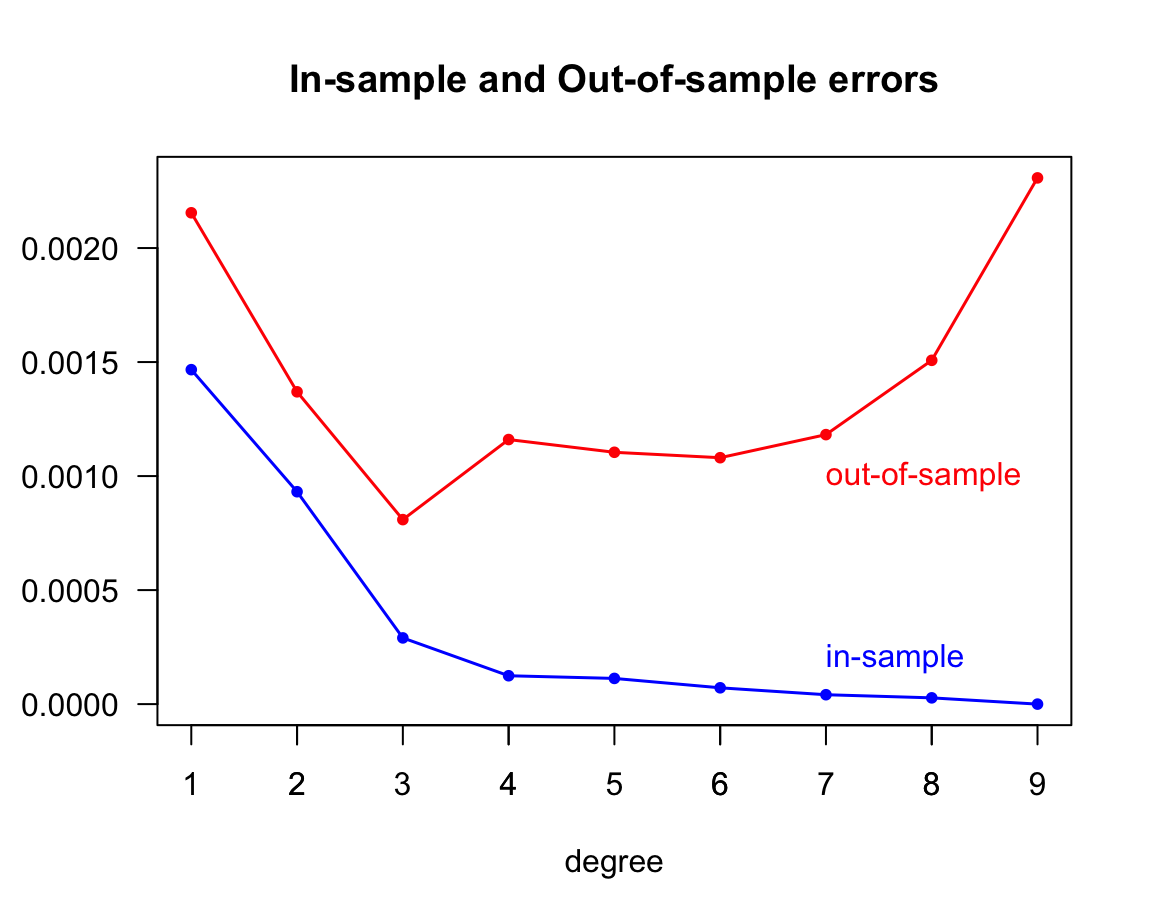
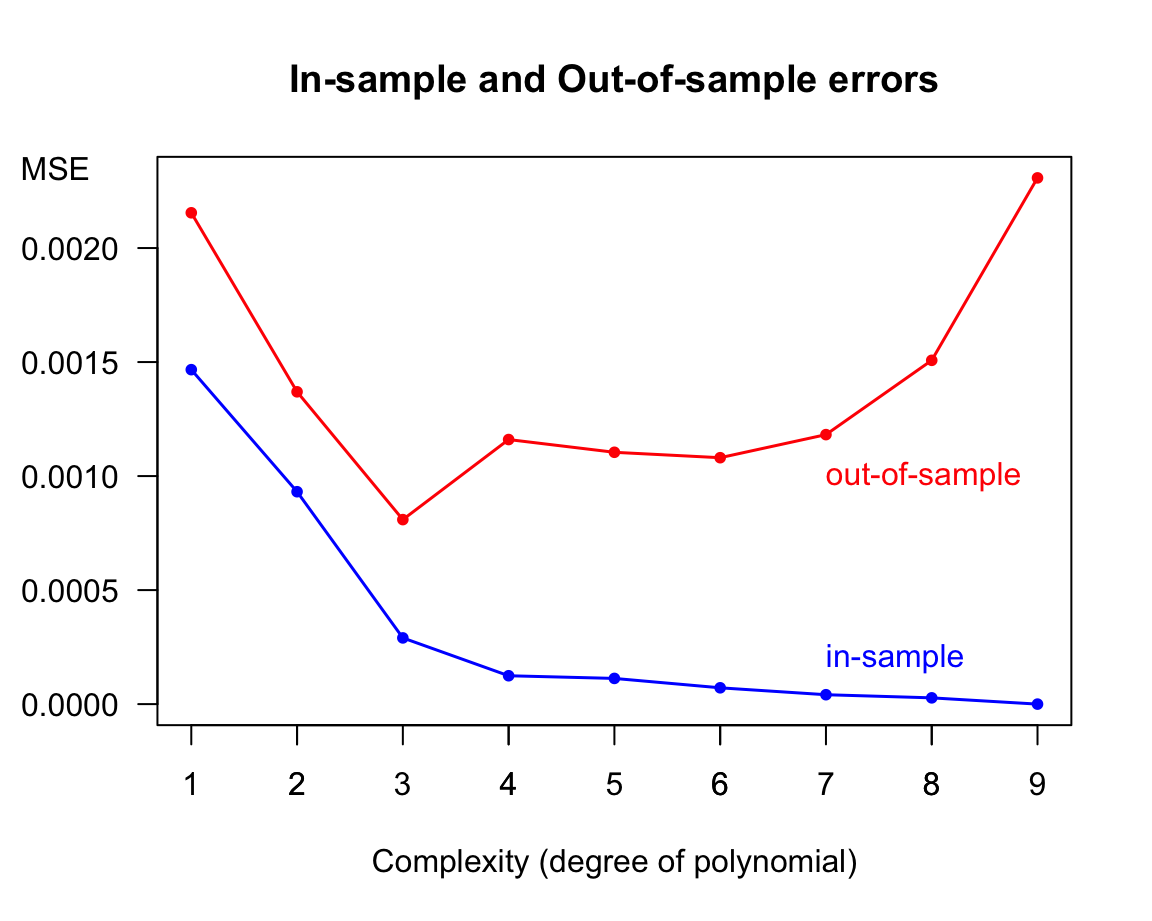
update allmodelsarewrong bookdown

Changed region(s): [[0.3125, 0.9121, 0.75, 0.9729], [0.0, 0.152, 0.0625, 0.2128]]

diff --git a/overfit.html b/overfit.html
@@ -186,7 +186,9 @@
 <li class="chapter" data-level="11.1.1" data-path="overfit.html"><a href="overfit.html#bias-variance-reminder-and-pitfalls"><i class="fa fa-check"></i><b>11.1.1</b> Bias-Variance Reminder and Pitfalls</a></li>
 </ul></li>
 <li class="chapter" data-level="11.2" data-path="overfit.html"><a href="overfit.html#simulation"><i class="fa fa-check"></i><b>11.2</b> Simulation</a><ul>
-<li class="chapter" data-level="11.2.1" data-path="overfit.html"><a href="overfit.html#when-does-overfitting-occurs"><i class="fa fa-check"></i><b>11.2.1</b> When does overfitting occurs?</a></li>
+<li class="chapter" data-level="11.2.1" data-path="overfit.html"><a href="overfit.html#underfitting-overfitting-and-okayfitting"><i class="fa fa-check"></i><b>11.2.1</b> Underfitting, Overfitting and Okayfitting</a></li>
+<li class="chapter" data-level="11.2.2" data-path="overfit.html"><a href="overfit.html#more-learning-sets"><i class="fa fa-check"></i><b>11.2.2</b> More learning sets</a></li>
+<li class="chapter" data-level="11.2.3" data-path="overfit.html"><a href="overfit.html#when-does-overfitting-occurs"><i class="fa fa-check"></i><b>11.2.3</b> When does overfitting occurs?</a></li>
 </ul></li>
 <li class="chapter" data-level="11.3" data-path="overfit.html"><a href="overfit.html#in-summary"><i class="fa fa-check"></i><b>11.3</b> In Summary</a></li>
 </ul></li>
@@ -563,7 +565,7 @@ capacity”. Models, or to be more precise <strong>class</strong> of models, tha
 important details.</p></li>
 <li><p><strong>Large Noise</strong> is the equivalent of getting distracted by the noise in the
 data. This is especially serious when working with <em>bad</em> data, extremely messy,
-perhaps having many missing values, or just simple being of poor quality.</p></li>
+perhaps having many missing values, or just simply being of poor quality.</p></li>
 </ul>
 <p>At this point, it would be nice to consider a simulation example in order to
 illustrate each of the listed pitfalls, and how they are connected to the
@@ -581,9 +583,14 @@ f(x) = sin(1 + x^2) + \varepsilon
 <p>with the input variable <span class="math inline">\(x\)</span> in the interval <span class="math inline">\([0,1]\)</span>, and the noise term
 <span class="math inline">\(\varepsilon \sim N(\mu=0, \sigma=0.03)\)</span>.</p>
 <p>The function of the signal, <span class="math inline">\(sin(1 + x^2)\)</span>, is depicted in the figure below.
-Keep min mind that in real life we will never have this knowledge: we won’t
+Keep in mind that in real life we will never have this knowledge: we won’t
 really know the true form of the target function.</p>
-<p><img src="allmodelsarewrong_files/figure-html/plotoverfit1-1.png" width="70%" style="display: block; margin: auto;" /></p>
+<div class="figure" style="text-align: center"><span id="fig:plotoverfit1"></span>
+<img src="allmodelsarewrong_files/figure-html/plotoverfit1-1.png" alt="Target signal function" width="70%" />
+<p class="caption">
+Figure 11.1: Target signal function
+</p>
+</div>
 <p>We have a model to play with. But, what about the data? We are going to simulate
 one <em>in-sample</em> set of 10 points <span class="math inline">\((x_i, y_i)\)</span>, and one <em>out-of-sample</em> set of
 also 10 points <span class="math inline">\((x_0, y_0)\)</span>.</p>
@@ -604,7 +611,12 @@ crosses. We should emphasize the fact that this out-of-sample set is just for
 simulation purposes. A more formal out-of-sample set should include all
 <span class="math inline">\(x\)</span>-values in the interval <span class="math inline">\([0,1]\)</span>. Likewise, we are including the curve of
 the signal just for visualization (in practice you won’t have this luxury).</p>
-<p><img src="allmodelsarewrong_files/figure-html/plotoverfit2-1.png" width="70%" style="display: block; margin: auto;" /></p>
+<div class="figure" style="text-align: center"><span id="fig:plotoverfit2"></span>
+<img src="allmodelsarewrong_files/figure-html/plotoverfit2-1.png" alt="Target signal with 10 in-sample points, and 10 out-of-sample points" width="70%" />
+<p class="caption">
+Figure 11.2: Target signal with 10 in-sample points, and 10 out-of-sample points
+</p>
+</div>
 <p>In this simulation analysis, we are interested in fitting several regression
 models taking the form of polynomials of various degrees. In theory, we could
 start by fitting a polynomial of degree zero, that is, a constant model. But
@@ -614,12 +626,17 @@ degree model, and so on and so forth. Having only 10 in-sample points, the
 maximum degree polynomial that can be fitted is a 9-degree polynomial.</p>
 <div id="linear-model" class="section level4 unnumbered">
 <h4>Linear Model</h4>
-<p>The first fitted model is a linear model fo the form:</p>
+<p>The first fitted model is a linear model of the form:</p>
 <p><span class="math display">\[
 h_1(x) = b_0 + b_1 x
 \]</span></p>
-<p>The actual regression model is shown in the figure below (see blue line).</p>
-<p><img src="allmodelsarewrong_files/figure-html/plotoverfit3-1.png" width="70%" style="display: block; margin: auto;" /></p>
+<p>The fitted regression model is shown in the figure below (see blue line).</p>
+<div class="figure" style="text-align: center"><span id="fig:plotoverfit3"></span>
+<img src="allmodelsarewrong_files/figure-html/plotoverfit3-1.png" alt="Linear model fit on in-sample points" width="70%" />
+<p class="caption">
+Figure 11.3: Linear model fit on in-sample points
+</p>
+</div>
 <p>With the obtained model, the corresponding in-sample error <span class="math inline">\(E_{in}\)</span> and
 out-of-sample error <span class="math inline">\(E_{out}\)</span> are:</p>
 <pre><code>    Ein      Eout   
@@ -632,7 +649,12 @@ out-of-sample error <span class="math inline">\(E_{out}\)</span> are:</p>
 h_2(x) = b_0 + b_1 x + b_2 x^2
 \]</span></p>
 <p>The following picture displays the fitted model (see blue curve).</p>
-<p><img src="allmodelsarewrong_files/figure-html/plotoverfit4-1.png" width="70%" style="display: block; margin: auto;" /></p>
+<div class="figure" style="text-align: center"><span id="fig:plotoverfit4"></span>
+<img src="allmodelsarewrong_files/figure-html/plotoverfit4-1.png" alt="Quadratic model fit on in-sample points" width="70%" />
+<p class="caption">
+Figure 11.4: Quadratic model fit on in-sample points
+</p>
+</div>
 <p>In this case, the corresponding in-sample error <span class="math inline">\(E_{in}\)</span> and
 out-of-sample error <span class="math inline">\(E_{out}\)</span> are:</p>
 <pre><code>    Ein      Eout   
@@ -645,7 +667,12 @@ which is called a <em>nonic</em>:</p>
 <p><span class="math display">\[
 h_9(x) = b_0 + b_1 x + b_2 x^2 + \dots + b_8 x^8 + b_9 x^9
 \]</span></p>
-<p><img src="allmodelsarewrong_files/figure-html/plotoverfit5-1.png" width="70%" style="display: block; margin: auto;" /></p>
+<div class="figure" style="text-align: center"><span id="fig:plotoverfit5"></span>
+<img src="allmodelsarewrong_files/figure-html/plotoverfit5-1.png" alt="Nonic model fit on in-sample points" width="70%" />
+<p class="caption">
+Figure 11.5: Nonic model fit on in-sample points
+</p>
+</div>
 <p>The corresponding in-sample error <span class="math inline">\(E_{in}\)</span> and out-of-sample error <span class="math inline">\(E_{out}\)</span> are:</p>
 <pre><code>    Ein      Eout   
 0.00000   0.00231   </code></pre>
@@ -653,29 +680,27 @@ h_9(x) = b_0 + b_1 x + b_2 x^2 + \dots + b_8 x^8 + b_9 x^9
 <div id="so-far" class="section level4 unnumbered">
 <h4>So far …</h4>
 <p>With these three models fitted so far (linear, quadratic and nonic), the one
-that best fits the in-sample data is the degree 9 polynomial which achieves
-zero in-sample error. Form this narrow perspective, it is very tempting to
-select <span class="math inline">\(h_9(x)\)</span> as our winner model.</p>
-<p><img src="allmodelsarewrong_files/figure-html/plotoverfit6-1.png" width="90%" style="display: block; margin: auto;" /></p>
+that best fits the in-sample data is the 9-degree polynomial which achieves
+zero in-sample error. From this narrow perspective, it is very tempting to
+select <span class="math inline">\(h_9(x)\)</span> as our winner model. After all, this is the model with a
+perfect fit to the learning data. But is this a wise idea?</p>
+<div class="figure" style="text-align: center"><span id="fig:plotoverfit6"></span>
+<img src="allmodelsarewrong_files/figure-html/plotoverfit6-1.png" alt="Linear, quadratic and nonic regression lines with in-sample error values" width="90%" />
+<p class="caption">
+Figure 11.6: Linear, quadratic and nonic regression lines with in-sample error values
+</p>
 </div>
-<div id="various-polynomials" class="section level4 unnumbered">
-<h4>Various Polynomials</h4>
-<p>It would actually be interesting to compare all fitted polynomials, from degree
-1 to 9, and evaluate not just their in-sample performance, but also their
-out-of-sample behavior. In fact, the out-of-sample performace is what we care
-about when deploying a model to the real world.</p>
-<p>The figure below depicts all nine polynomials.
-As you can tell, the linear model does not have enough capacity. Although it
-does approximates the general positive trend between <span class="math inline">\(y\)</span> and most of the range
-of <span class="math inline">\(x\)</span>-values, its in-sample error is the largest of all.</p>
-<p>The quadratic model does a better job than the linear model, but still misses
-the sigmoidal shape of the signal. Interestingly, the polynomials of degrees 3,
-4, and 5 are able to approximate most of the overall shape of the target model.</p>
-<p>In turn, the degree-9 polynomial, while it does a terrific job of passing
-through all the in-sample points, it is too wiggly. Formally, we say that this
-model is too flexible.</p>
+</div>
+<div id="underfitting-overfitting-and-okayfitting" class="section level3">
+<h3><span class="header-section-number">11.2.1</span> Underfitting, Overfitting and Okayfitting</h3>
+<p>To better unerstand the behavor of low-order versus high-order polynomials, it
+would be nice to compare all fitted polynomials from degree 1 to 9, and
+evaluate not just their in-sample performance, but also their out-of-sample
+behavior (see figure and table below). In fact, at the end of the day it is the
+out-of-sample performace that we care about when deploying a model to the real
+world.</p>
 <p><img src="allmodelsarewrong_files/figure-html/plotoverfit7-1.png" width="90%" style="display: block; margin: auto;" /></p>
-<p>The table below shows both the in-sample error and the out-of-sample error
+<p>The following table shows both the in-sample error and the out-of-sample error
 for each of the nine regression models:</p>
 <pre><code>    degree       Ein      Eout
 1        1   0.00147   0.00215
@@ -687,32 +712,76 @@ for each of the nine regression models:</p>
 7        7   0.00004   0.00118
 8        8   0.00003   0.00151
 9        9   0.00000   0.00231</code></pre>
-<p>which we can display graphically</p>
+<p>As you can tell, the linear model does not have enough capacity. Although it
+does approximate the general positive trend between <span class="math inline">\(y\)</span> and most of the range
+of <span class="math inline">\(x\)</span>-values, its in-sample error is the largest of all. Compared to the rest
+of the models, we say that this polynomial underfits the data. This means that
+we could increase a more complex model producing lower <span class="math inline">\(E_{in}\)</span> and <span class="math inline">\(E_{out}\)</span>.</p>
+<p>The quadratic model does a slightly better job than the linear model, but still
+misses the sigmoidal shape of the signal. Compared to the more flexibile
+polynomials, we can also say that this model is underfitting.</p>
+<p>Interestingly, the polynomials of degrees 3, 4, and 5 are able to approximate
+most of the overall shape of the target model. And at least visually, we can
+tell that the cubic polynomial is the model with an “okayfit”.</p>
+<p>In turn, the degree-9 polynomial, while it does a terrific job of passing
+through all the in-sample points, it is too wiggly. Formally, we say that this
+model is too flexible.</p>
+<p>To facilitate the comparison between in-sample error versus out-of-sample error,
+we graph them as error curves along their level complexity in terms of the
+polynomial degree.</p>
 <p><img src="allmodelsarewrong_files/figure-html/plotoverfit8-1.png" width="70%" style="display: block; margin: auto;" /></p>
+<p>As you might suspect, selecting the 9-order polynomial out of all nine models
+because it is the one that has perfect in-sample prediction is not the best
+decision. Compared to the rest of the models, we say that the 9-order regression
+model overfits the data. And so do the 8-order and 7-order polynomial to a
+lesser extent. Overfitting means that an attractively small <span class="math inline">\(E_{in}\)</span> value is
+no longer a good indicator of a model’s out-of-sample performance.</p>
+</div>
+<div id="more-learning-sets" class="section level3">
+<h3><span class="header-section-number">11.2.2</span> More learning sets</h3>
+<p>Having the “view of the gods”, we can easily see how
+wiggly the 9-degree polynomial model is compared to the true signal. It is not
+hard to imagine that a different learning set of 10 points following the same target distribution, will result in completely different 9-order polynomials.
+This situation is illustrated in the following diagram, in which three new
+learning sets of size <span class="math inline">\(n = 10\)</span> have been generated, each with the fitted class
+of polynomial.</p>
+<div class="figure" style="text-align: center"><span id="fig:plotoverfit9"></span>
+<img src="allmodelsarewrong_files/figure-html/plotoverfit9-1.png" alt="Three additional models based on three different learning sets" width="90%" />
+<p class="caption">
+Figure 11.7: Three additional models based on three different learning sets
+</p>
+</div>
+<p>Notice again the high flexibility of the high-order polynomials, namely those
+of degree 7, 8 and 9. Because each learning set contains 10 points, all the
+9-order polynomials fit them perfectly. However, they all show an extremely
+volatile behavior. In contrast, the low-order polynomials, namely the linear,
+the quadratic and the cubic models are much more stable.</p>
 </div>
 <div id="when-does-overfitting-occurs" class="section level3">
-<h3><span class="header-section-number">11.2.1</span> When does overfitting occurs?</h3>
+<h3><span class="header-section-number">11.2.3</span> When does overfitting occurs?</h3>
 <p>Simply put, overfitting happens when we fit the data more than is necessary.
 More formally, overfitting is the phenomenon when we choose the model with
 smaller <span class="math inline">\(E_{in}\)</span>, and it turns out in bigger <span class="math inline">\(E_{out}\)</span>. This implies that the
 in-sample error <span class="math inline">\(E_{in}\)</span>, in and of itself, is no longer a good indicator for
 the chosen model’s generalization power when predicting out-of-sample data.</p>
-<p>Under-fit models perform poorly on unseen data because of their little capacity.
-The fitted models are not of the right class, and they suffer from bias.
-In practice, it’s generally impossible to know the class of model for the
-target function. How can we really know that <span class="math inline">\(f(x)\)</span> is a cubic model, or that
-it is polynomial of a certain degree? However, we can get an idea of the
-complexity of the hypothesis. In general, low complexity models tend to
-be biased. The more complexity, the amount of bias decreases. How much exactly?
-That’s impossible to say.</p>
-<p>If none of the proposed hypothesized models contain the truth, they will be
-biased. Some models may have more bias, other models may have less, but they
-still will be biased. Keep in mind that the amount of bias does not depend on
-the size of the in-sample set. This means that increasing the number of
-learning points won’t give you a better chance to approximate <span class="math inline">\(f()\)</span>.</p>
+<p>What about underfitting? This occurs with models that perform poorly on unseen
+data because of their little capacity or flexibility. Under-fit models are not
+of the right class, and they suffer from large bias. In practice, of course,
+it is generally impossible to know the true class of model for the target
+function. How can we really know that <span class="math inline">\(f(x)\)</span> is a cubic model, or that
+it is polynomial of a certain degree? Well, we can’t. However, we can get an
+idea of the complexity of our hypothesis models. In general, low complexity
+models tend to be biased, and viceversa, with more complex models the amount of
+bias decreases.</p>
+<p>The important thing, al least in theory, is that if none of the proposed
+hypothesized models contain the truth, they will be biased. Keep in mind that
+the amount of bias does not depend on the size of the in-sample set. This means
+that increasing the number of learning points won’t give you a better chance to
+approximate <span class="math inline">\(f()\)</span>.</p>
 <p>The thing that does depend on the number of learning points is the variance
 of the model. As <span class="math inline">\(n\)</span> increases, large-capacity models will experience a
-reduction in variability, and their higher flexibility becomes an advantage.</p>
+reduction in variability, and their higher flexibility tends to become an
+advantage.</p>
 <p>There is nothing remarkable about polynomials here. All of the same comments
 and remarks apply to other flexible classes of models, such as non-parametric
 regression models (e.g. kernel models), k-nearest neighbors, locally weighted
